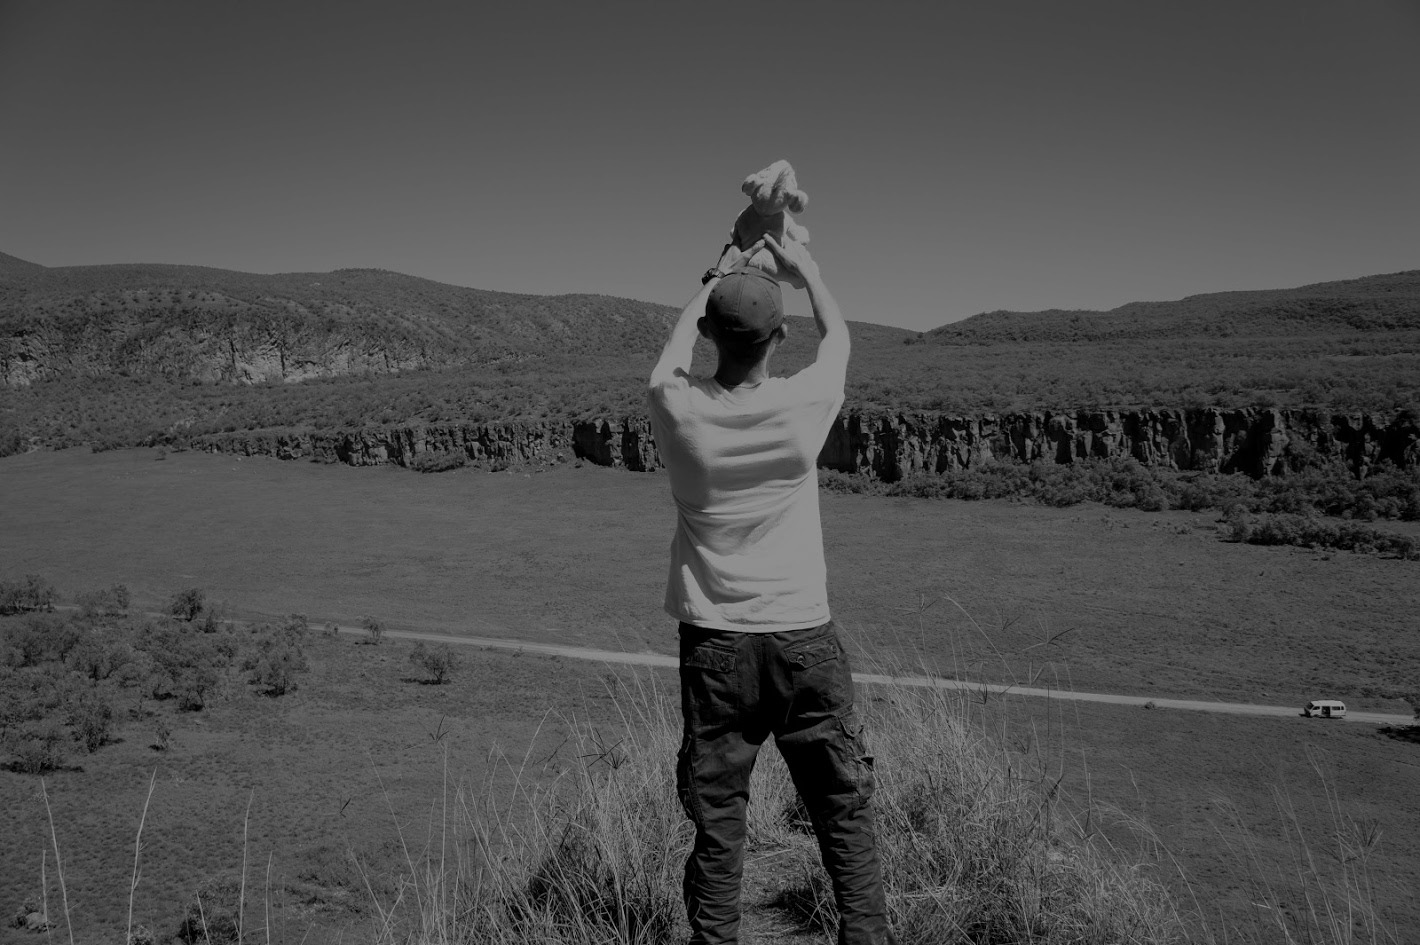
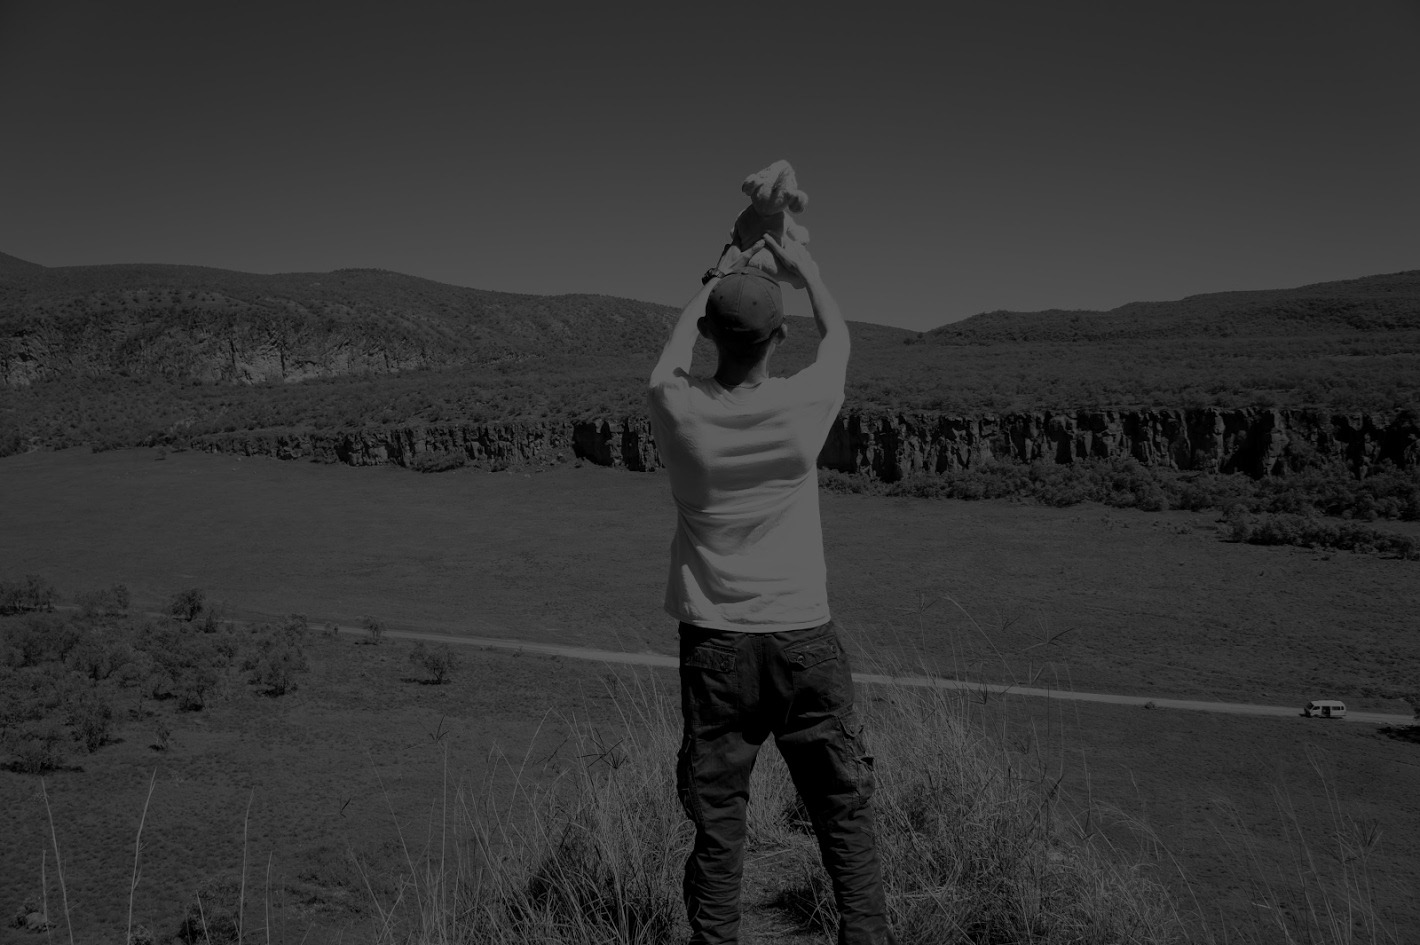
1. overlay 60% 2. black text and white bg for about and 4 section

diff --git a/_includes/contact.html b/_includes/contact.html
@@ -1,25 +1,27 @@
     <!-- Contact Section -->
-    <section id="contact" class="container content-section text-center">
-        <div class="row">
-            <div class="col-lg-8 col-lg-offset-2">
-                <h2>Contact</h2>
-                <p>Want to get in touch with Dustin? Feel free to reach out to him at the email below. You can also connect with him on social media.</p>
-                <p><a href="mailto:hello@dustinmooney.com">HELLO@DUSTINMOONEY.COM</a>
-                </p>
-                <ul class="list-inline banner-social-buttons">
-                    {% for network in site.social %}
-                    {% if network.title != "stack-exchange" %}
-                    <li>
-                        <a href="{{ network.url }}" class="btn btn-default btn-lg" rel="noopener"><i class="fab fa-{{ network.title }} fa-fw"></i> <span class="network-name">{{ network.title }}</span></a>
-                    </li>
-                    {% endif %}
-                    {% if network.title == "stack-exchange" %}
+    <div class="color-swap">
+	    <section id="contact" class="container content-section text-center">
+	        <div class="row">
+	            <div class="col-lg-8 col-lg-offset-2">
+	                <h2>Contact</h2>
+	                <p>Want to get in touch with Dustin? Feel free to reach out to him at the email below. You can also connect with him on social media.</p>
+	                <p><a href="mailto:hello@dustinmooney.com">HELLO@DUSTINMOONEY.COM</a>
+	                </p>
+	                <ul class="list-inline banner-social-buttons">
+	                    {% for network in site.social %}
+	                    {% if network.title != "stack-exchange" %}
 	                    <li>
-	                        <a href="{{ network.url }}" class="btn btn-default btn-lg" rel="noopener"><i class="fab fa-{{ network.title }} fa-fw"></i> <span class="network-name">Commentary</span></a>
+	                        <a href="{{ network.url }}" class="btn btn-default btn-lg" rel="noopener"><i class="fab fa-{{ network.title }} fa-fw"></i> <span class="network-name">{{ network.title }}</span></a>
 	                    </li>
-                    {% endif %}
-                    {% endfor %}
-                </ul>
-            </div>
-        </div>
-    </section>
+	                    {% endif %}
+	                    {% if network.title == "stack-exchange" %}
+		                    <li>
+		                        <a href="{{ network.url }}" class="btn btn-default btn-lg" rel="noopener"><i class="fab fa-{{ network.title }} fa-fw"></i> <span class="network-name">Commentary</span></a>
+		                    </li>
+	                    {% endif %}
+	                    {% endfor %}
+	                </ul>
+	            </div>
+	        </div>
+	    </section>
+    </div>

diff --git a/_includes/css/grayscale.css b/_includes/css/grayscale.css
@@ -8,8 +8,8 @@ body {
     width: 100%;
     height: 100%;
     font-family: 'Arvo', Arial, sans-serif;
-    color: #fff;
-    background-color: {{ site.color.primary-dark }};
+    color: {{ site.color.primary-dark }};
+    background-color: #fff;
 }
 
 html {
@@ -348,10 +348,9 @@ a:focus {
     line-height: 1.6em;
 }
 
-#map {
-    width: 100%;
-    height: 200px;
-    margin-top: 100px;
+.color-swap {
+	background-color: {{ site.color.primary-dark }};
+	color: #ffffff;
 }
 
 @media(min-width:767px) {
@@ -425,7 +424,8 @@ ul.banner-social-buttons li {
 footer {
     padding: 50px 0;
     text-transform: uppercase;
-    color: #999999
+    color: #999999;
+    background: {{ site.color.primary-dark }};
 }
 
 footer p {
